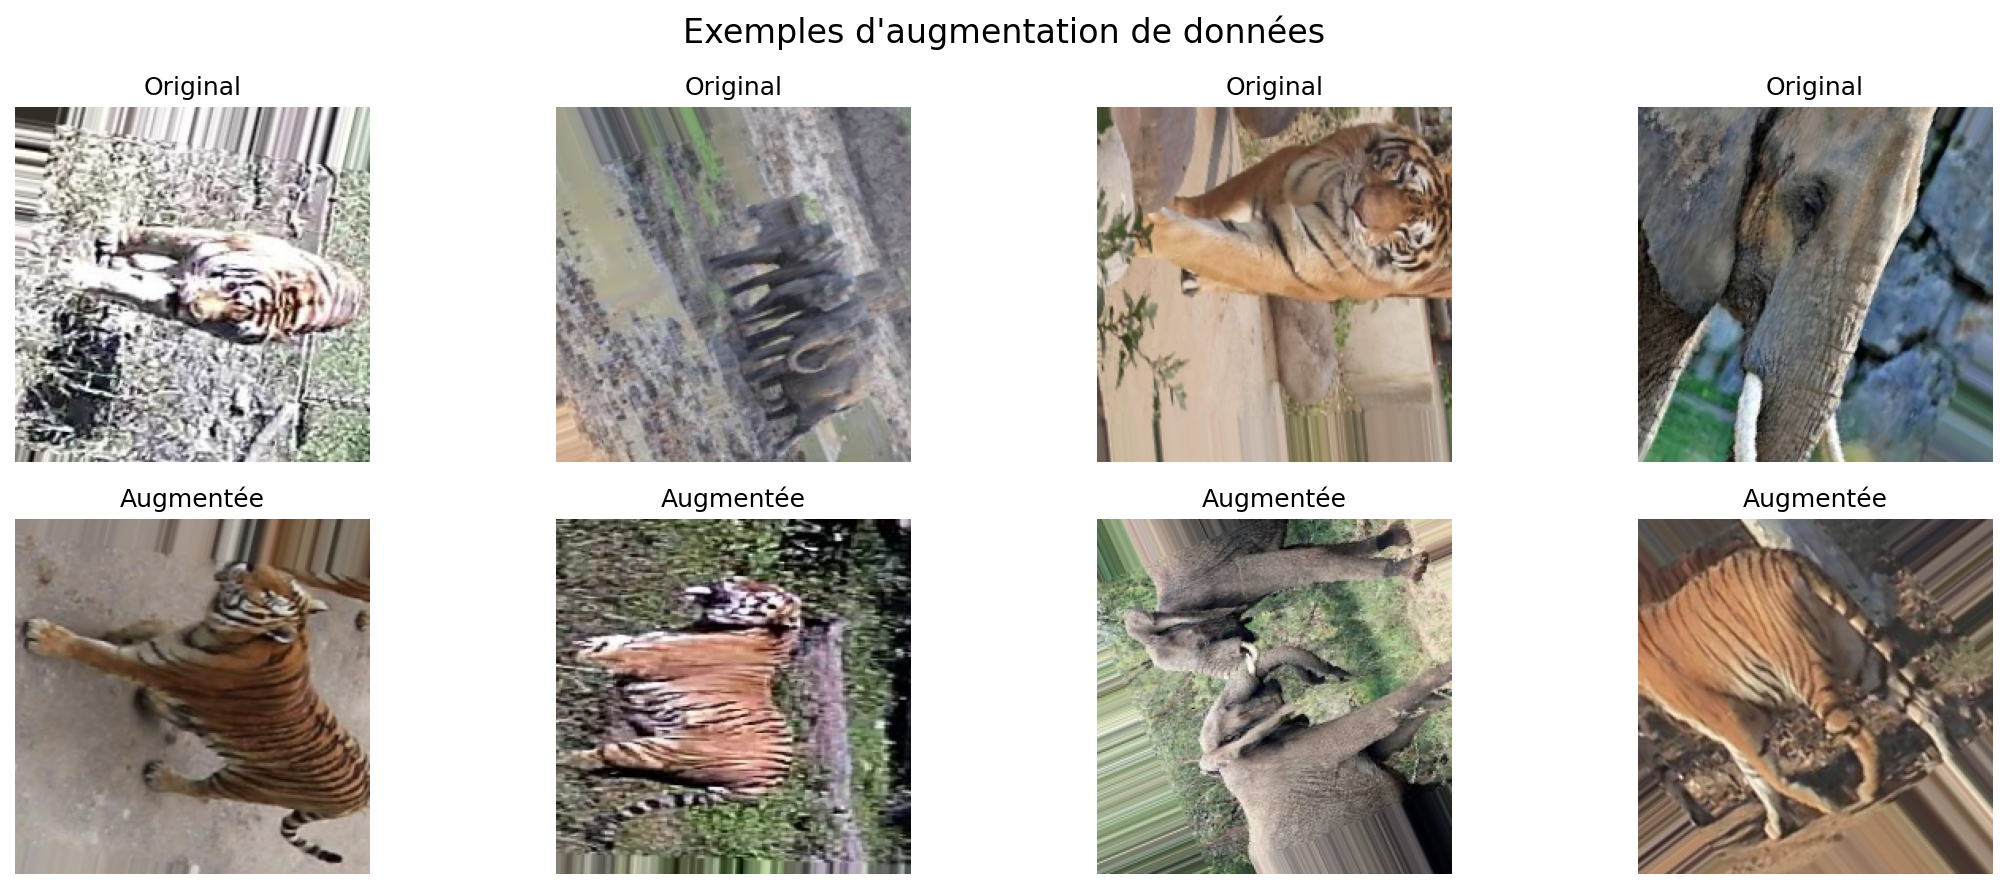
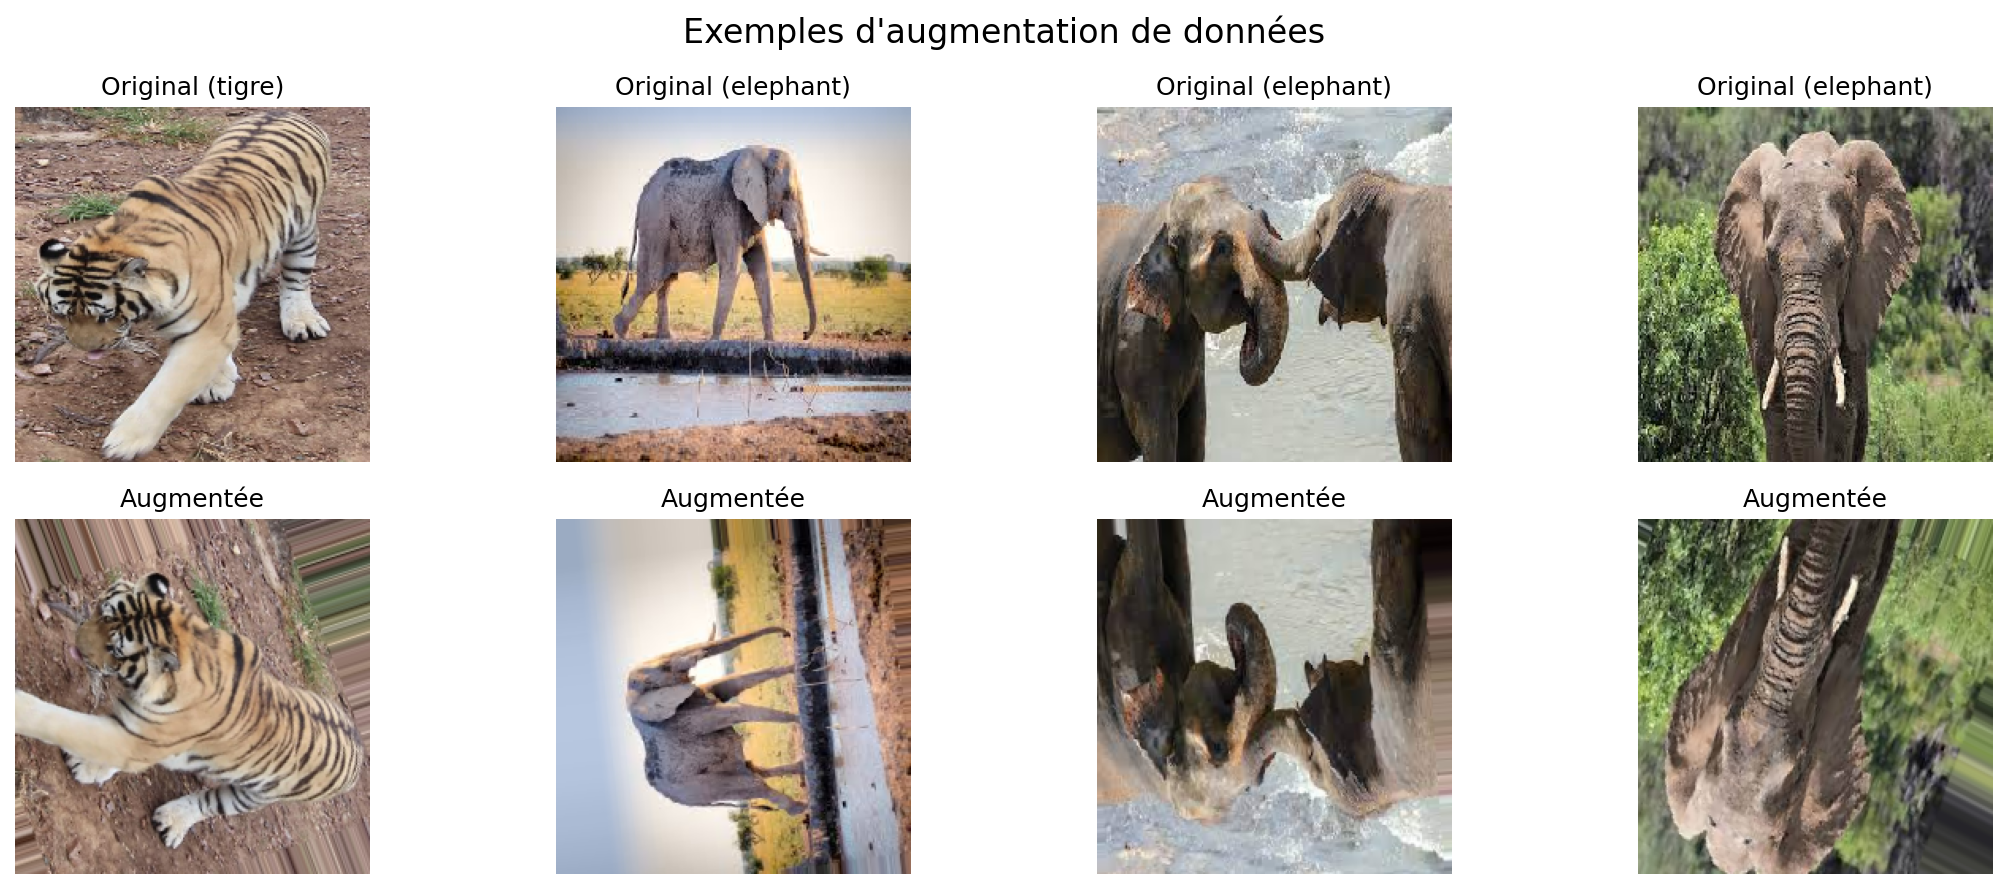
fix visualisation

diff --git a/preprocessing.py b/preprocessing.py
@@ -207,8 +207,11 @@ def visualize_augmentation(data_dir, target_size=(224, 224), num_samples=4):
     # Récupérer les classes valides (exclure 'extra' et autres dossiers ignorés)
     valid_classes = get_valid_classes(data_dir)
     
-    # Créer un générateur avec augmentation
-    datagen = ImageDataGenerator(
+    # Générateur SANS augmentation pour obtenir les images originales
+    original_datagen = ImageDataGenerator(rescale=1./255)
+    
+    # Générateur AVEC augmentation pour appliquer les transformations
+    augment_datagen = ImageDataGenerator(
         rescale=1./255,
         rotation_range=359,
         zoom_range=0.2,
@@ -218,13 +221,15 @@ def visualize_augmentation(data_dir, target_size=(224, 224), num_samples=4):
         fill_mode='nearest'
     )
     
-    generator = datagen.flow_from_directory(
+    # Générateur pour les images originales (sans augmentation)
+    original_generator = original_datagen.flow_from_directory(
         data_dir,
         target_size=target_size,
         batch_size=1,
         class_mode='categorical',
-        classes=valid_classes,  # Spécifier explicitement les classes à inclure
-        shuffle=True
+        classes=valid_classes,
+        shuffle=True,
+        seed=42  # Seed fixe pour reproductibilité
     )
     
     # Afficher quelques exemples
@@ -232,15 +237,21 @@ def visualize_augmentation(data_dir, target_size=(224, 224), num_samples=4):
     fig.suptitle('Exemples d\'augmentation de données', fontsize=16)
     
     for i in range(num_samples):
-        # Image originale (première ligne)
-        img, label = next(generator)  # Utiliser next() au lieu de .next()
-        axes[0, i].imshow(img[0])
-        axes[0, i].axis('off')
-        axes[0, i].set_title('Original')
+        # Charger l'image originale (sans augmentation)
+        img_original, label_original = next(original_generator)
         
-        # Image augmentée (deuxième ligne)
-        img_aug, _ = next(generator)  # Utiliser next() au lieu de .next()
-        axes[1, i].imshow(img_aug[0])
+        # Appliquer l'augmentation directement à cette image
+        # random_transform() applique les transformations aléatoirement
+        img_augmented = augment_datagen.random_transform(img_original[0])
+        
+        # Afficher l'image originale (première ligne)
+        axes[0, i].imshow(img_original[0])
+        axes[0, i].axis('off')
+        class_name = list(original_generator.class_indices.keys())[label_original[0].argmax()]
+        axes[0, i].set_title(f'Original ({class_name})')
+        
+        # Afficher l'image augmentée (deuxième ligne)
+        axes[1, i].imshow(img_augmented)
         axes[1, i].axis('off')
         axes[1, i].set_title('Augmentée')
     
